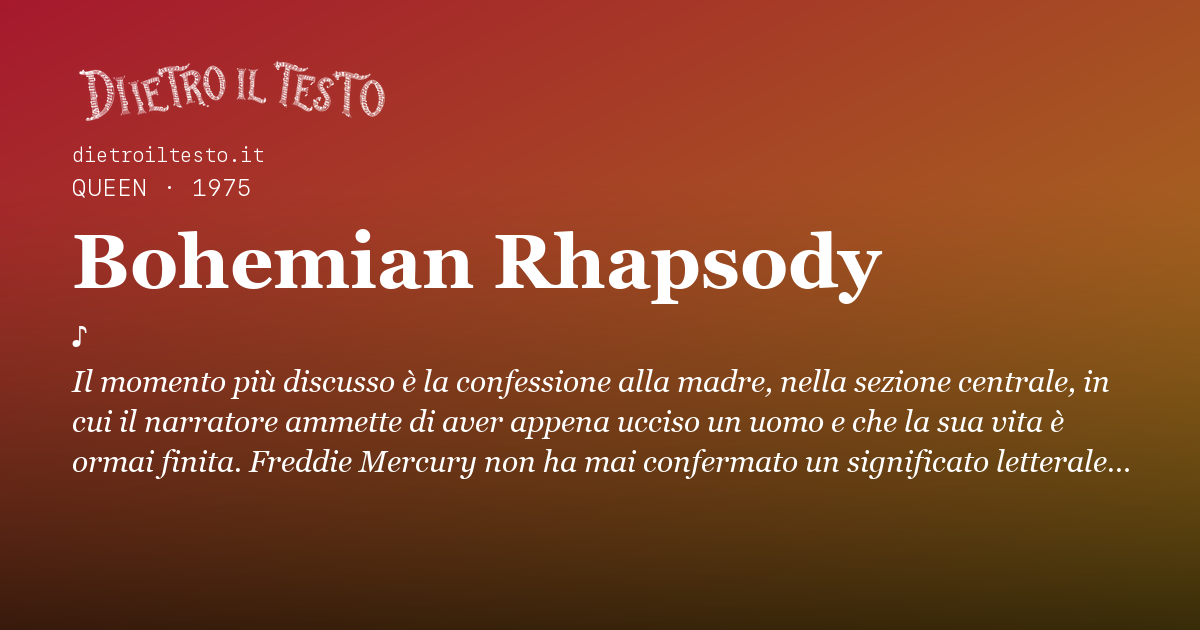
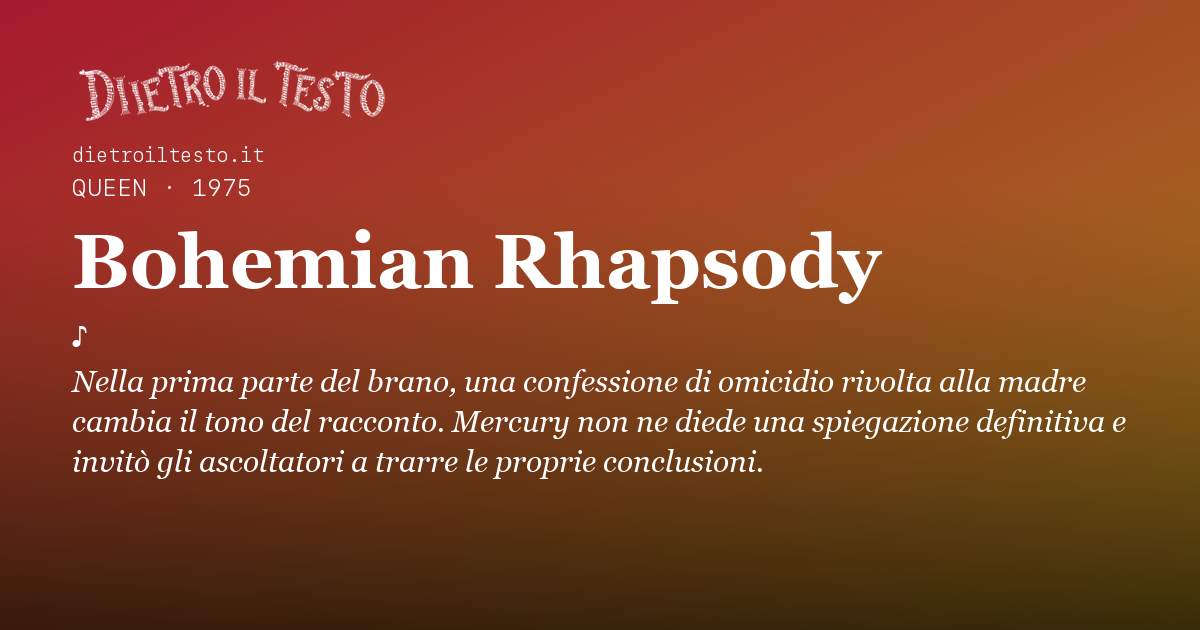
Correggi la scheda Bohemian Rhapsody

Changed region(s): [[0.0617, 0.573, 0.9558, 0.754]]

diff --git a/ROADMAP.md b/ROADMAP.md
@@ -4165,3 +4165,13 @@ Nella copia separata è stata riscritta la frase iconica a livello di funzione d
 Il proprietario ha scritto «applica e procedi» dopo aver visto la proposta del §30. Il commit `c2279c74` è stato integrato con avanzamento diretto in `main` locale. Rigenerato il sito: 26 file pubblicabili sono cambiati, fra cui la pagina della canzone, le anteprime collegate, l'indice di ricerca e le sitemap. Tutti i file del pacchetto generato coincidono byte per byte con quelli della cartella principale. Il file non tracciato `SEO-LASTMOD-2026-09-21.md` conserva lo stesso hash SHA-256 precedente.
 
 **Controlli:** `check-coerenza`, `check-seo`, `check-link`, `check-filtri`, `check-nature` e `git diff --check` passano. La verifica visiva desktop e mobile della pagina e dell'immagine condivisibile è documentata al §30. La modifica è nella cartella principale locale; non è stata inviata a GitHub né pubblicata online. Le correzioni di altre schede e le proposte di immagini restano in copie separate.
+
+## 37. Proposta separata: correzione di Bohemian Rhapsody, 1 ottobre 2026
+
+Il rapporto indipendente `rapporti/orario/36-bohemian-rhapsody.md` segnala un'attribuzione a Brian May non sostenuta dalle fonti, un primato Spotify smentito dai dati del sito, una vendita collocata in «poche settimane» senza prova e una frase iconica che traduce quasi letteralmente parte del brano (P3). I rilievi sono stati riesaminati sulle pagine aperte della [Official Charts Company](https://www.officialcharts.com/songs/queen-bohemian-rhapsody/), di [uDiscoverMusic](https://www.udiscovermusic.com/stories/queen-bohemian-rhapsody-song-history/) e del [sito ufficiale dei Queen](https://www.queenonline.com/news/original-bohemian-rhapsody-test-pressing-to-be-auctioned-for-the-brit-trust). Quest'ultimo conferma data, album e produzione con Roy Thomas Baker.
+
+Nella copia separata il corpo distingue il commento di May dalle parole di Mercury e usa il dato di vendita complessivo dell'archivio ufficiale, senza attribuirlo alle prime settimane. Rimosso il falso primato nel catalogo e il conteggio Spotify approssimato, collegato in precedenza a una pagina generica senza il dato del brano. La frase iconica descrive la confessione nella prima parte della canzone senza tradurne il verso, collocarla nella sezione centrale o attribuire a Mercury interpretazioni non confermate. Le tre fonti pertinenti sono visibili per nome; Wikipedia e l'indice generico Kworb non sostengono più la scheda. Il campo `ultimaVerifica` resta vuoto: non è stato riesaminato frase per frase tutto il materiale storico.
+
+**Prove.** Rigenerate 687 pagine e la sola immagine `og/bohemian-rhapsody.png`, controllata visivamente senza troncamenti. La descrizione SEO si chiude al termine della prima frase. Nell'anteprima locale la nuova frase compare anche nella cartolina Instagram; su mobile a 390 × 844 px e desktop a 1280 × 800 px non c'è scorrimento orizzontale né errore di console. `check-coerenza`, `check-seo`, `check-link`, `check-attribuzioni --tutte` e `git diff --check` passano; restano 30 avvisi informativi preesistenti su altre schede.
+
+**Stato:** lotto locale isolato per revisione. Questa copia parte dalla cartella principale e modifica lo stesso archivio JSON delle altre correzioni in revisione, ma solo la voce `bohemian-rhapsody`; l'integrazione futura richiederà di unire i piccoli lotti. Nessun trasferimento, push o pubblicazione.
